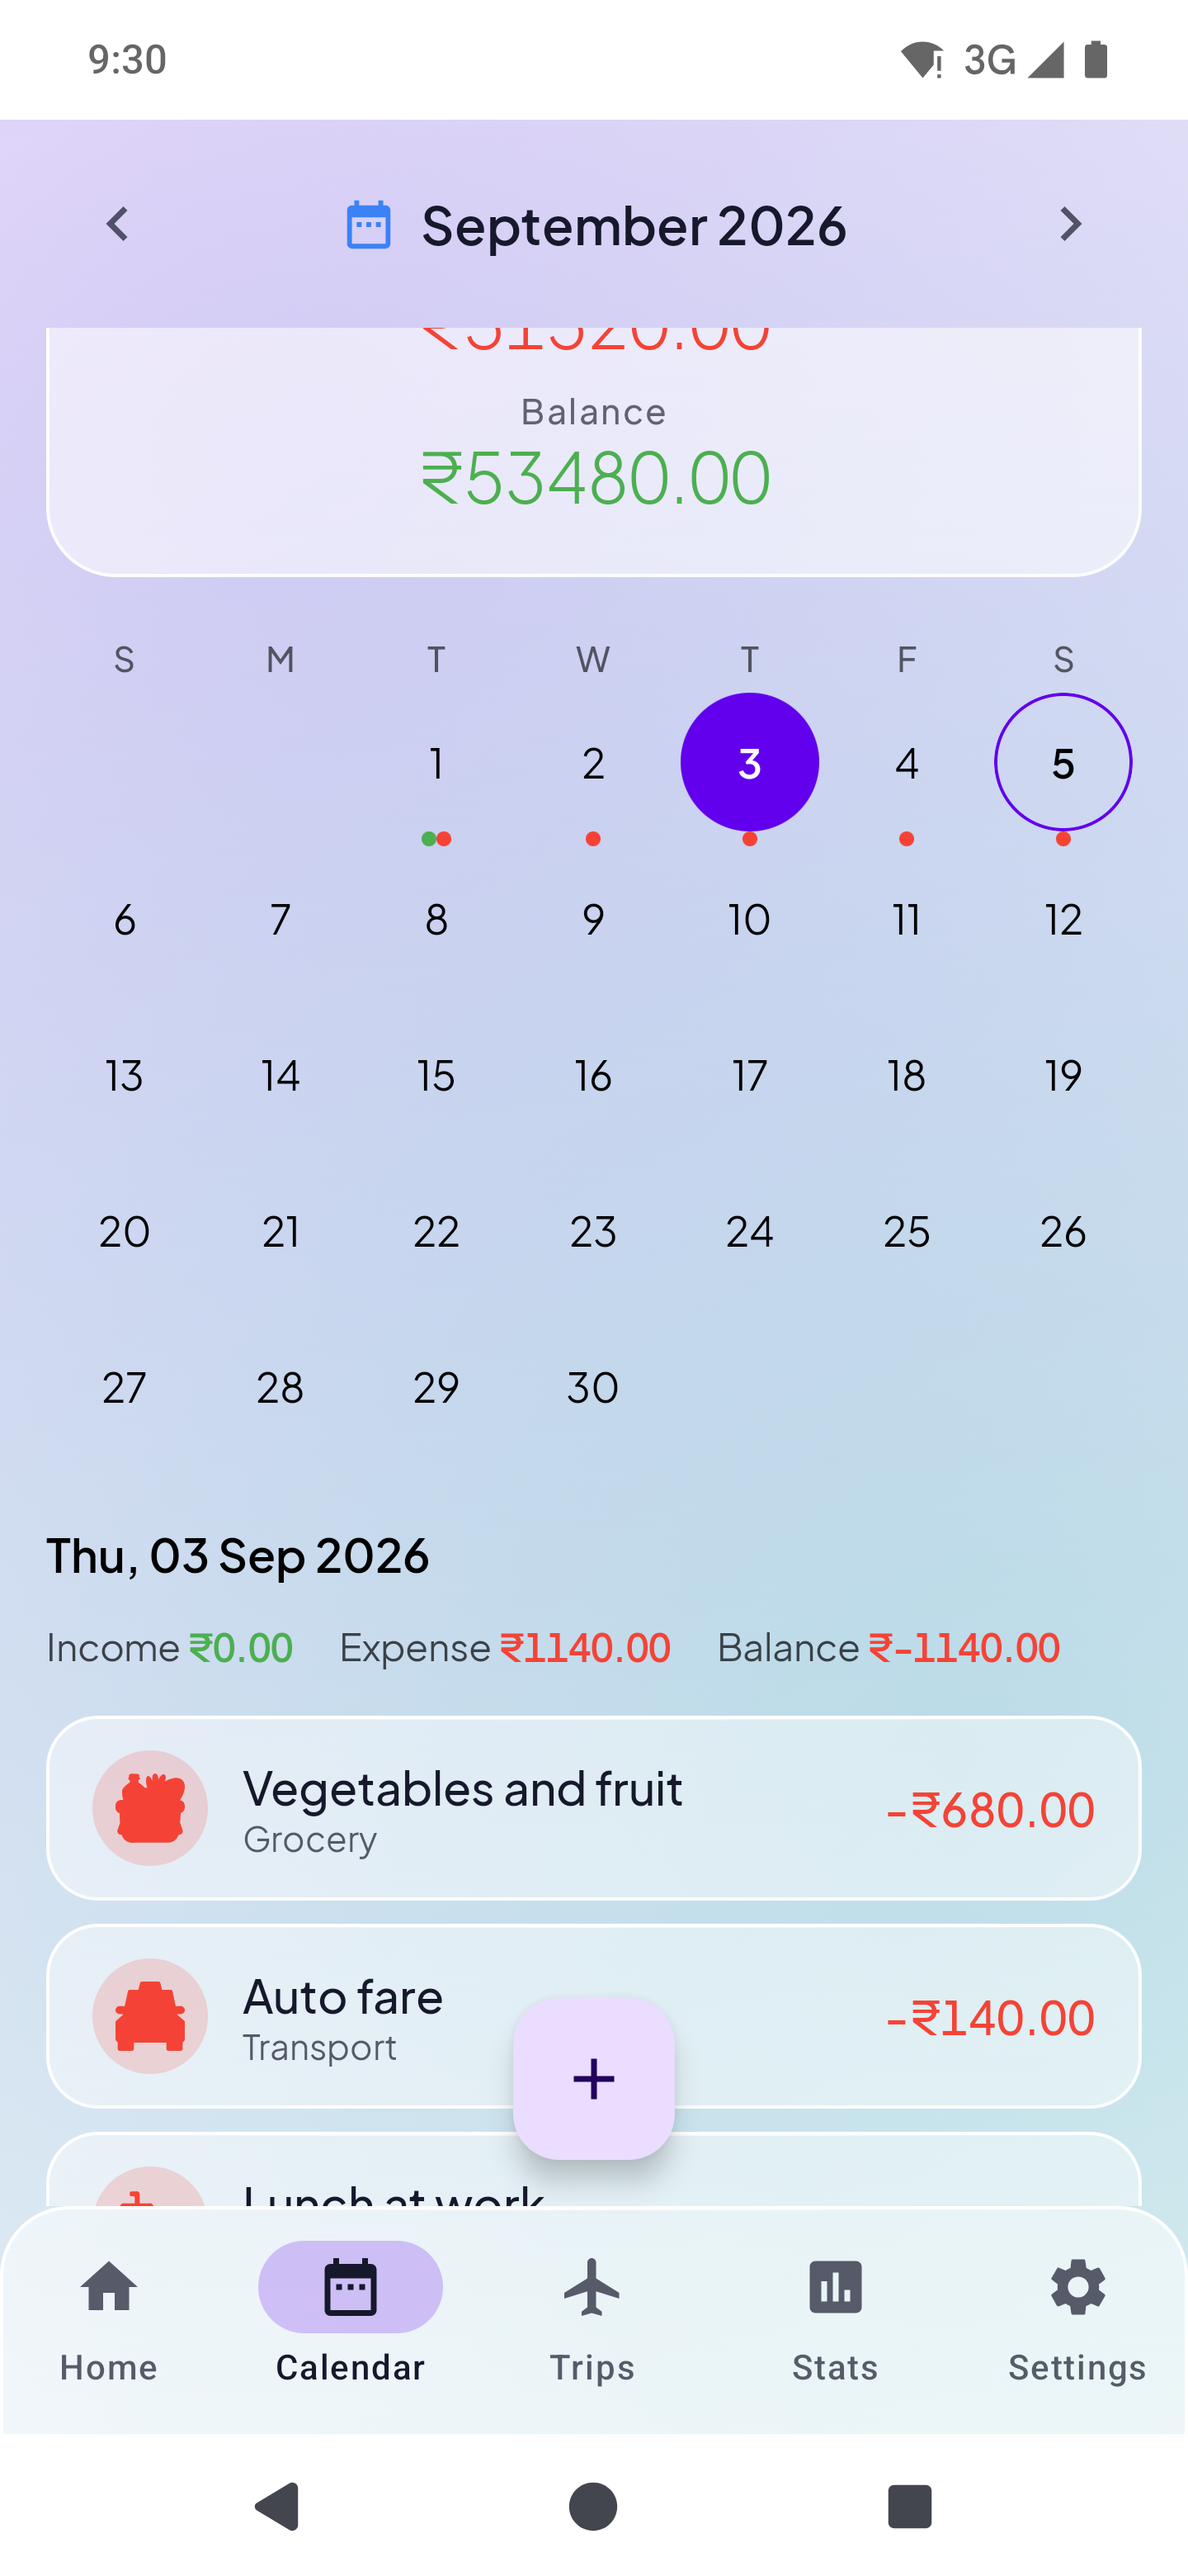
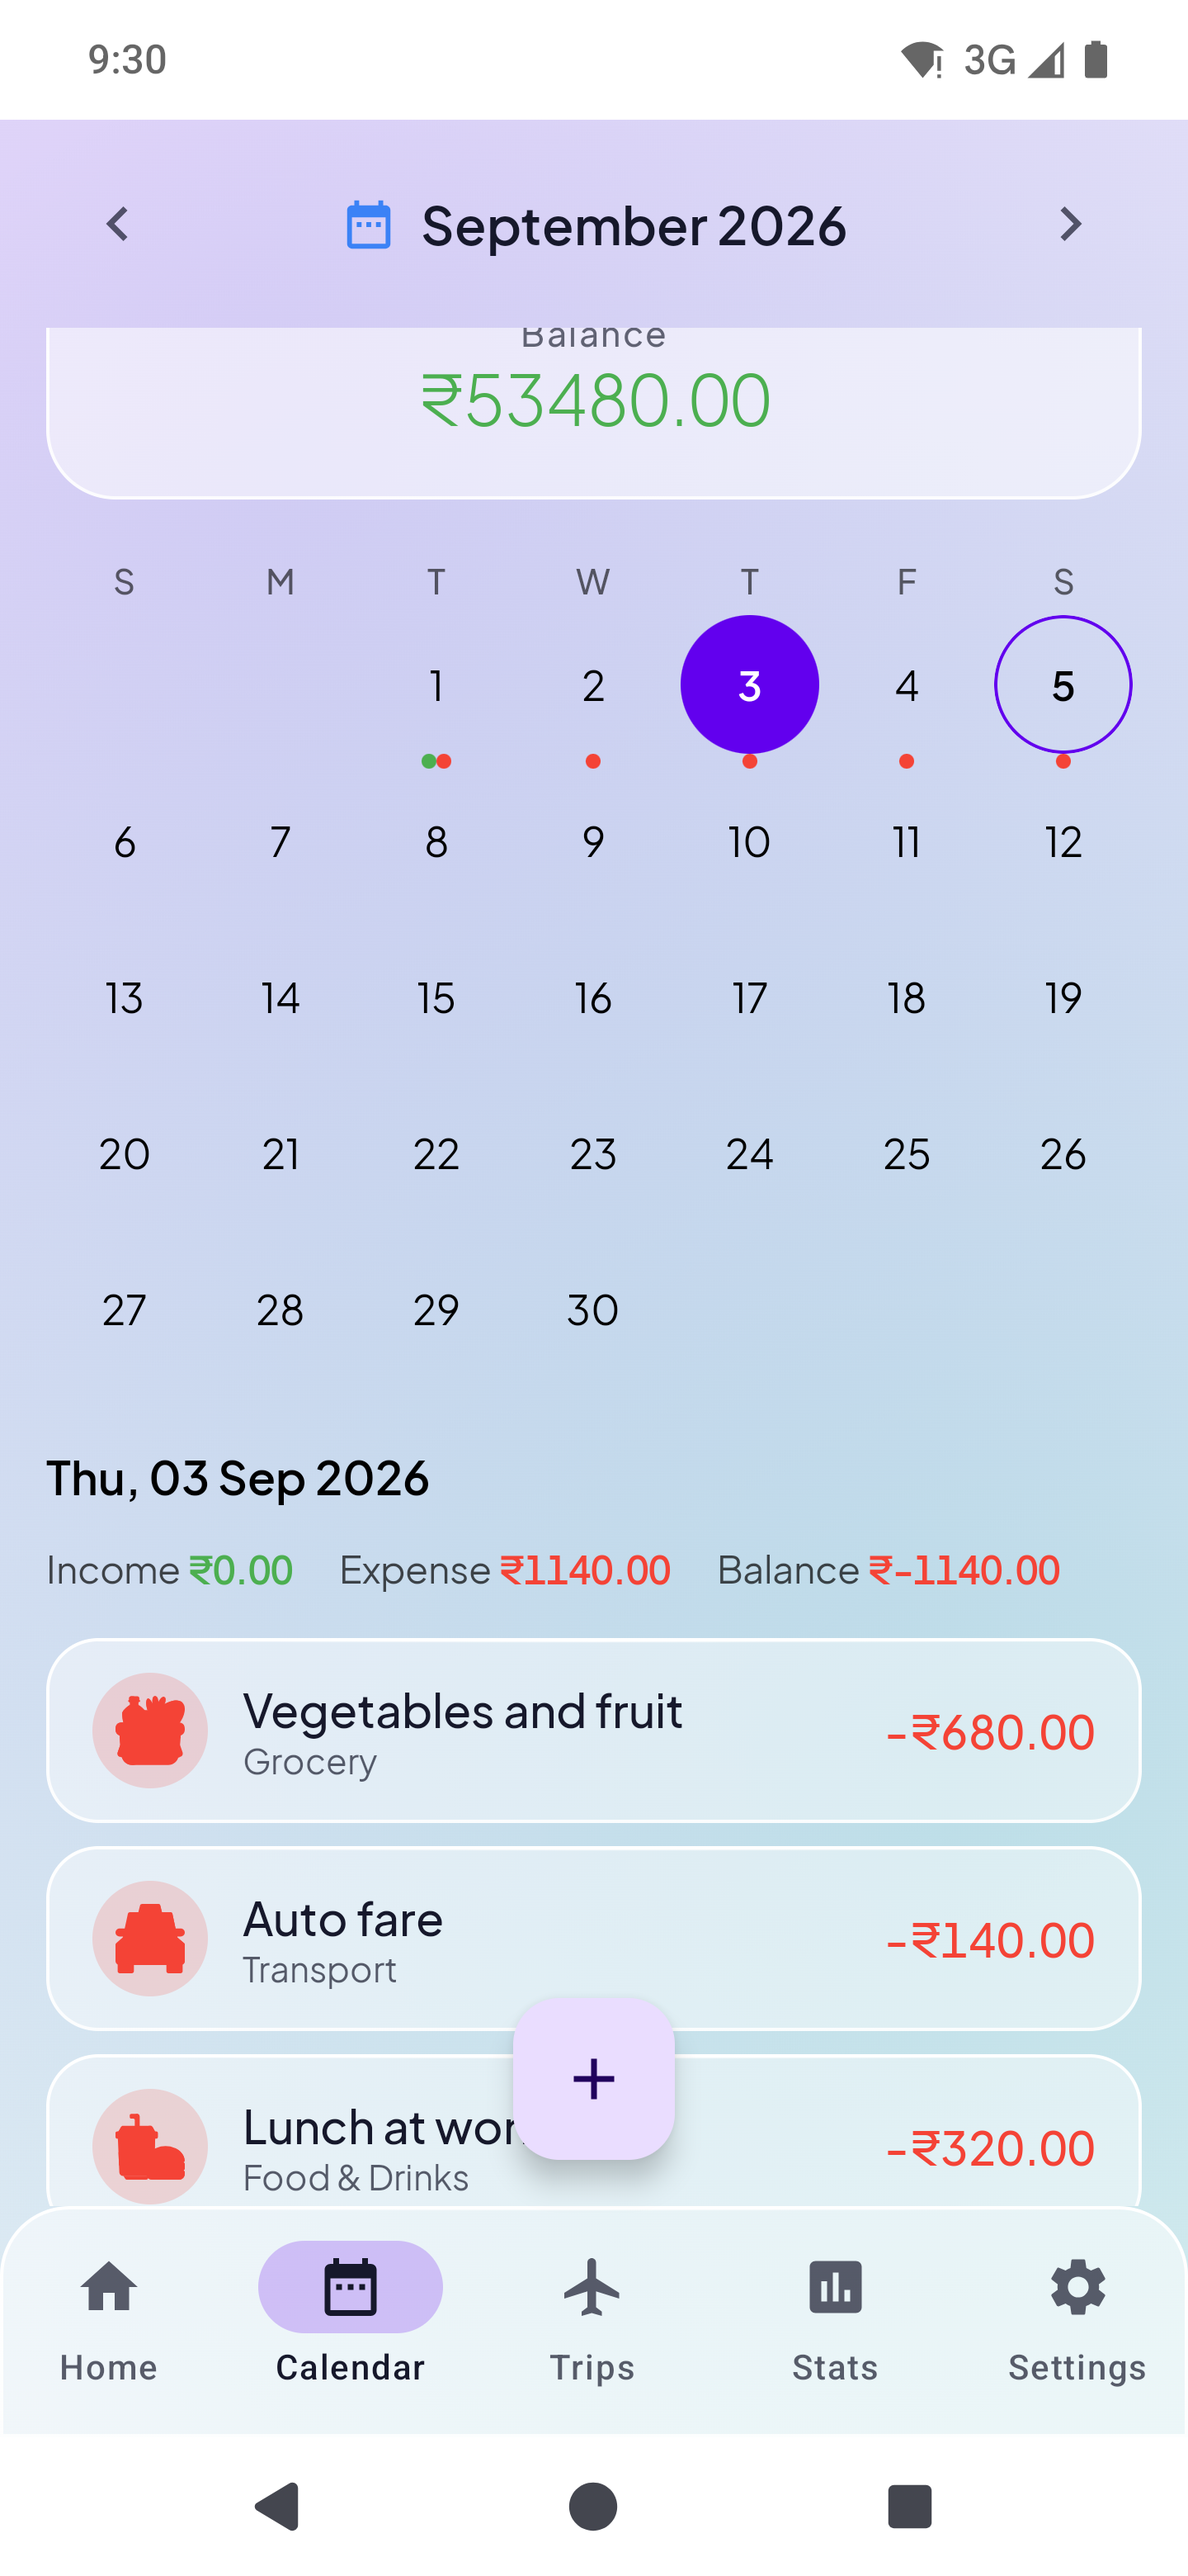
docs(assets): final Pocket Manager emulator captures and wedding planner store assets
Replaces the superseded first-pass captures swept into 355f7a6 and 436c5cb
by a blanket git add. Adds the dark-theme set and both README indexes.

diff --git a/docs/assets/pocket-manager/README.md b/docs/assets/pocket-manager/README.md
@@ -1,0 +1,71 @@
+# Pocket Manager screenshots
+
+Captured for QUESTIONS.md item 60 (which answered item 16: derive new screenshots from the
+latest local build rather than pulling them off the store listing).
+
+## Capture conditions
+
+| | |
+|---|---|
+| Device profile | Pixel 6 Pro AVD (`hw.device.name=pixel_6_pro`), 1440 × 3120, 560 dpi, arm64-v8a |
+| Android version | 15 (API 35), `system-images/android-35/default/arm64-v8a` |
+| App versionName | 2.0.0 (versionCode 21), debug build, applicationId `com.thegeekdogs.pocketguard2.debug` |
+| Source | `/Users/sahib.singh/AndroidStudioProjects/PocketManager-Android`, `./gradlew assembleDebug` |
+| Captured | 2026-09-05 |
+| Method | `adb exec-out screencap -p`, portrait, native resolution, no crop or resize |
+
+All twelve files are 1440 × 3120 PNG. Six screens, each in the app's own light and dark
+themes (Settings → Appearance → Light / Dark); the dark files carry the `-dark` suffix.
+
+The SystemUI demo mode was on during capture, so the status bar reads a fixed 9:30 with a
+full battery and no notification icons. Nothing inside the app was altered by it.
+
+## Sample data
+
+The app keeps no account and shipped with an empty database, so ten transactions were seeded
+into September 2026 before capture, using category names the app already ships with and plain
+Indian-rupee amounts. No brand names and no person names appear in any of them.
+
+- Income: Monthly salary ₹85,000 (Salary), 1 Sep.
+- Expenses: House rent ₹24,000 (Rent, 1 Sep); Monthly groceries ₹4,250 (Grocery, 2 Sep);
+  Vegetables and fruit ₹680, Auto fare ₹140, Lunch at work ₹320 (3 Sep); Coffee ₹180,
+  Metro card recharge ₹500 (4 Sep); Dinner out ₹1,240, Milk and bread ₹210 (5 Sep).
+- Totals: in ₹85,000, out ₹31,520, balance ₹53,480.
+
+## Files
+
+Each line describes only what is visible on screen.
+
+| File | What is on screen |
+|---|---|
+| `01-home.png` | The Home tab. A month selector reading "September 2026", a Balance card showing ₹53,480 with the line "You're under your income this month." and In ₹85,000 / Out ₹31,520, a "Filter Transactions" control and a search button, then a transaction list grouped by day: under "Today", Dinner out (Food & Drinks) −₹1,240 and Milk and bread (Grocery) −₹210; under "Yesterday", Coffee (Food & Drinks) −₹180. A purple add button floats over the list, and the bottom bar shows Home, Calendar, Trips, Stats, Settings. |
+| `02-calendar.png` | The Calendar tab, scrolled so the month's Balance of ₹53,480.00 sits above the grid. September 2026 is shown as a month grid with 3 selected as a filled circle and 5 outlined as today; dots under 1 to 5 mark the days that have records. Below the grid, "Thu, 03 Sep 2026" with that day's Income ₹0.00, Expense ₹1140.00 and Balance ₹−1140.00, then the day's three records: Vegetables and fruit (Grocery) −₹680.00, Auto fare (Transport) −₹140.00, and Lunch at work (Food & Drinks) −₹320.00, the last partly behind the floating add button. |
+| `03-statistics.png` | The Statistics screen with the range selector reading "Last 7 days" and the Expense tab selected. A "Total Expenses ₹31,520" card, then a bar chart headed "Expenses value by date" with one bar per weekday — Tue 24000, Wed 4250, Thu 1140, Fri 680, Sat 1450 — and the note "All values are in ₹". The top of the "Most Transacted Expense Categories" card is visible below it. |
+| `04-categories.png` | The same Statistics screen scrolled to its foot. The "Expenses value by date" bar chart, then the "Most Transacted Expense Categories" card: a donut chart beside a list reading Rent 76.14%, Grocery 16.3%, Food & Drinks 5.52%, Transport 2.03%. |
+| `05-export.png` | The Settings screen scrolled to its data section. Rows for Notification (on), American date format (off), then "Export Data" tagged Beta with the line "Backup file, you choose where it's saved", "Import Data" tagged Beta, "Share as CSV" tagged Beta with "Spreadsheet copy, sent to an app you choose", "Share the app", and "About and licences". Below them, "V 2.0.0" and the line "Your data is backed up via Android's built-in backup, tied to your Google account." |
+| `06-settings.png` | The top of the Settings screen: "Your name — Not set", "Monthly budget — Not set", "Recurring transactions — None yet", an Appearance card with System / Light / Dark and Light selected, "Currency ₹", a Notification toggle set on, an American date format toggle set off, and the first two rows of the data section, Export Data and Import Data. |
+
+`01-home-dark.png` through `06-settings-dark.png` show the same six screens with the same data
+in the app's dark theme. The one difference in content is `06-settings-dark.png`, where the
+Appearance card has Dark selected rather than Light.
+
+## Notes for whoever writes the alt text
+
+Three things do not match COPY.md §4.7 as it currently stands. The alt lines need rewriting
+against these images rather than the images being restaged.
+
+1. **There is no separate categories screen.** The category breakdown is the last card on the
+   Statistics screen, not a screen of its own. `03-statistics.png` and `04-categories.png` are
+   the top and the bottom of one scrolling screen, so they share the bar chart.
+2. **The category list shows percentages, not totals.** §4.7 says "with a spending total beside
+   each category"; the app prints 76.14%, 16.3%, 5.52%, 2.03%. No rupee amount appears per
+   category anywhere in that card.
+3. **There is no export screen.** Export is a row in Settings that hands off to the system file
+   picker, so `05-export.png` shows the Settings data section that contains it. The app also
+   labels Export Data, Import Data and Share as CSV as **Beta**, which is on screen and would
+   have to be described or the screenshot dropped.
+
+Also worth a decision: the Statistics range selector reads "Last 7 days", not a month, so the
+figures on `03`/`04` are a seven-day window while `01` and `02` are monthly. And there is no
+app-lock or PIN screen in this build — the Settings screen above is the whole of it — so the
+optional sixth capture named in the task is the Settings screen instead.

diff --git a/docs/assets/wedding-planner/README.md b/docs/assets/wedding-planner/README.md
@@ -1,0 +1,65 @@
+# Wedding planner store assets
+
+Copied for QUESTIONS.md item 10, which cleared the five real-device screenshots and the store
+icons from the product repo's `assets/brand/store/`. Copied 2026-09-05.
+
+## Source
+
+`/Users/sahib.singh/FlutterProjects/wedme/assets/brand/store/`
+
+Repo identified by the bundle id `com.thegeekdogs.wedme` (brief §5.3). Its own
+`assets/brand/store/README.md` records the screenshots as real captures from
+`factory/EVIDENCE/CARD-0442-CARD-0044/`, taken on an **iPhone 17 Pro simulator** via
+`tool/journey.sh` during run 159's regression pass on 2026-08-25 — not mockups, but a
+simulator rather than a physical handset. The brief calls them "real-device screenshots";
+if that phrase is going to appear on the site, it needs the owner's sign-off first.
+
+The `play/screenshots/` and `appstore/screenshots/` directories hold byte-identical files
+(verified by checksum); the copies below are from `play/`.
+
+## Excluded
+
+`play/feature-graphic-1024x500.png` is **not** copied. It carries the placeholder wordmark
+"Milan / Wedding Planner", and brief §5.3 plus COPY.md §5.5 exclude it for that reason.
+
+## Files
+
+| File | Source | What is on screen |
+|---|---|---|
+| `icon-play-512.png` | `play/icon-512.png` | The app icon, 512 × 512, RGBA. Mark only, no wordmark. |
+| `icon-app-store-1024.png` | `appstore/icon-1024.png` | The same icon at 1024 × 1024, RGB with no alpha. Mark only, no wordmark. |
+| `01-planning-board-functions.png` | `play/screenshots/01-homeboard-functions.png` | The Home screen. A couple's names and date at the top with "365 days to go", a progress row reading "1 of 17 decisions settled" and a "1 thing is overdue" chip, then one card per function of the wedding — Sangeet (Aug 24, 2027), Wedding (Aug 25, 2027), Reception (Aug 26, 2027) and Haldi Sunset — each with its own colour dot and date. Below them an "Open questions" card. Bottom bar: Home, Boards, Money, Guests, Calendar. |
+| `02-planning-board-compare.png` | `play/screenshots/02-board-compare-view.png` | A planning board titled "Gifts & Favours" with Card / Compare toggles and Compare selected. A comparison table with one column per option, rows for Photo, Quoted price (₹5,60,000 and ₹4,20,000), Alcohol licence, Rating, Status (both Shortlisted), To ask and Pros & cons. An "Add an option" button floats bottom right. |
+| `03-money-who-paid-what.png` | `play/screenshots/03-money-who-paid-what.png` | The Money screen with "Show chart" selected. Four contributors ranked by share, each with an avatar, an amount and a percentage bar — ₹1,47,500 / 57%, ₹52,500 / 20%, ₹38,500 / 15%, ₹22,000 / 8% — with a payment count under each. Below, a "By side" summary splitting the total between the two sides and the couple, and the line "Based on 7 rows". A "Record a payment" button floats bottom right. |
+| `04-money-payment-schedule.png` | `play/screenshots/04-money-payment-schedule.png` | A payment-schedule sheet over the Money screen. A booking named at the top, a "Payment schedule" heading with an "Add instalment" action, two instalments — "Booking advance ₹2,80,000" and "Final balance ₹2,80,000", both marked Due with no due date — then "Scheduled ₹5,60,000" and the line "The instalments match the booking total." Below, a "Split it" row of presets: 50 / 50, 25 / 50 / 25, 30 / 40 / 30, Advance + balance, Custom. |
+| `05-compare-view-hindi.png` | `play/screenshots/05-hindi-localisation.png` | The same "Gifts & Favours" board with the interface in Hindi: the toggles read कार्ड and तुलना, the button reads विकल्प जोड़ें, and the bottom bar reads होम, बोर्ड, पैसा, मेहमान, कैलेंडर. Two option cards with photos, one priced ₹4,20,000 and one reading अभी भाव नहीं मिला, both tagged छाँटा हुआ. |
+
+All five screenshots are 1206 × 2622.
+
+## Placeholder name check
+
+**None of the five screenshots shows the placeholder name "Milan" anywhere** — not as a
+wordmark, not in a title bar, not in a splash. Every screen was opened and read. Each is a
+screen inside the app, and the app's own screens are titled by their content ("Home", "Money",
+"Gifts & Favours"), never by the product name. Neither icon carries a wordmark either. On this
+test, all seven copied files can ship.
+
+## Other things a reviewer should decide
+
+These are not blockers for item 10, but they are real and they are visible.
+
+1. **`02` and `05` show a vendor-comparison board, not the multi-function planning board.**
+   COPY.md §5.2 makes the multi-function board the differentiator and §5.3 fixes the feature
+   list a screenshot may illustrate: "A planning board with a guest list and a headcount for
+   each function." Neither of these two images shows a guest list or a headcount; they show
+   shortlisted options with quoted prices. §5.5 says a screenshot showing anything outside the
+   §5.3 list is not used. `01` is the only one of the five that shows the functions.
+2. **The source README mislabels `05`.** It calls it "Compare view in Hindi"; the image is the
+   **Card** view (कार्ड is the selected tab, not तुलना).
+3. **`05` is only partly localised.** The board title "Gifts & Favours" and both option names
+   stay in English while the chrome is Hindi. §5.3 claims "A Hindi interface."
+4. **The sample data carries invented person, couple and venue names** (on `01`, `03` and `04`).
+   They are the product team's fixtures, not real people, but they will be legible on the site.
+5. The upstream README notes that plan item 4 wanted a payment timeline by month and no such
+   capture exists; `04` is a per-booking instalment schedule instead. COPY.md §5.3 says "a
+   payment timeline by month", which this image does not show.
